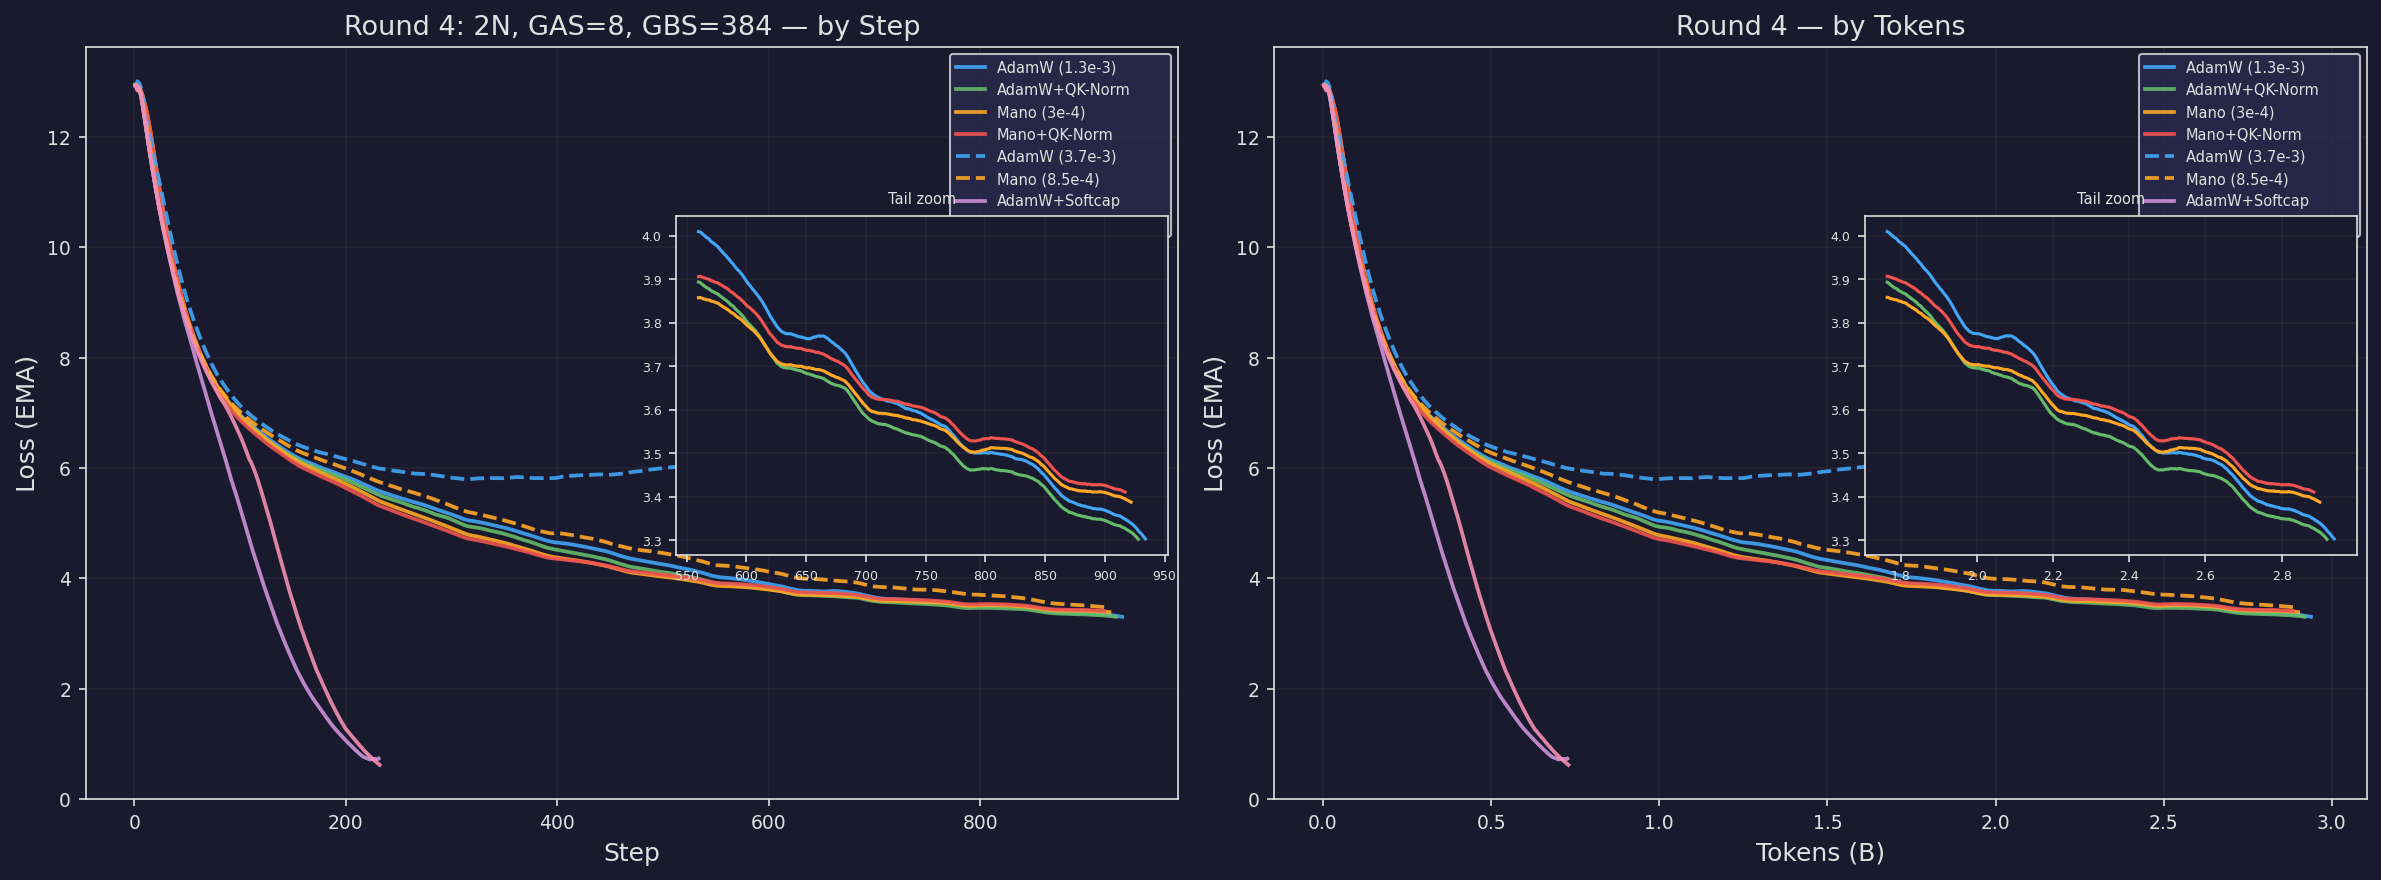
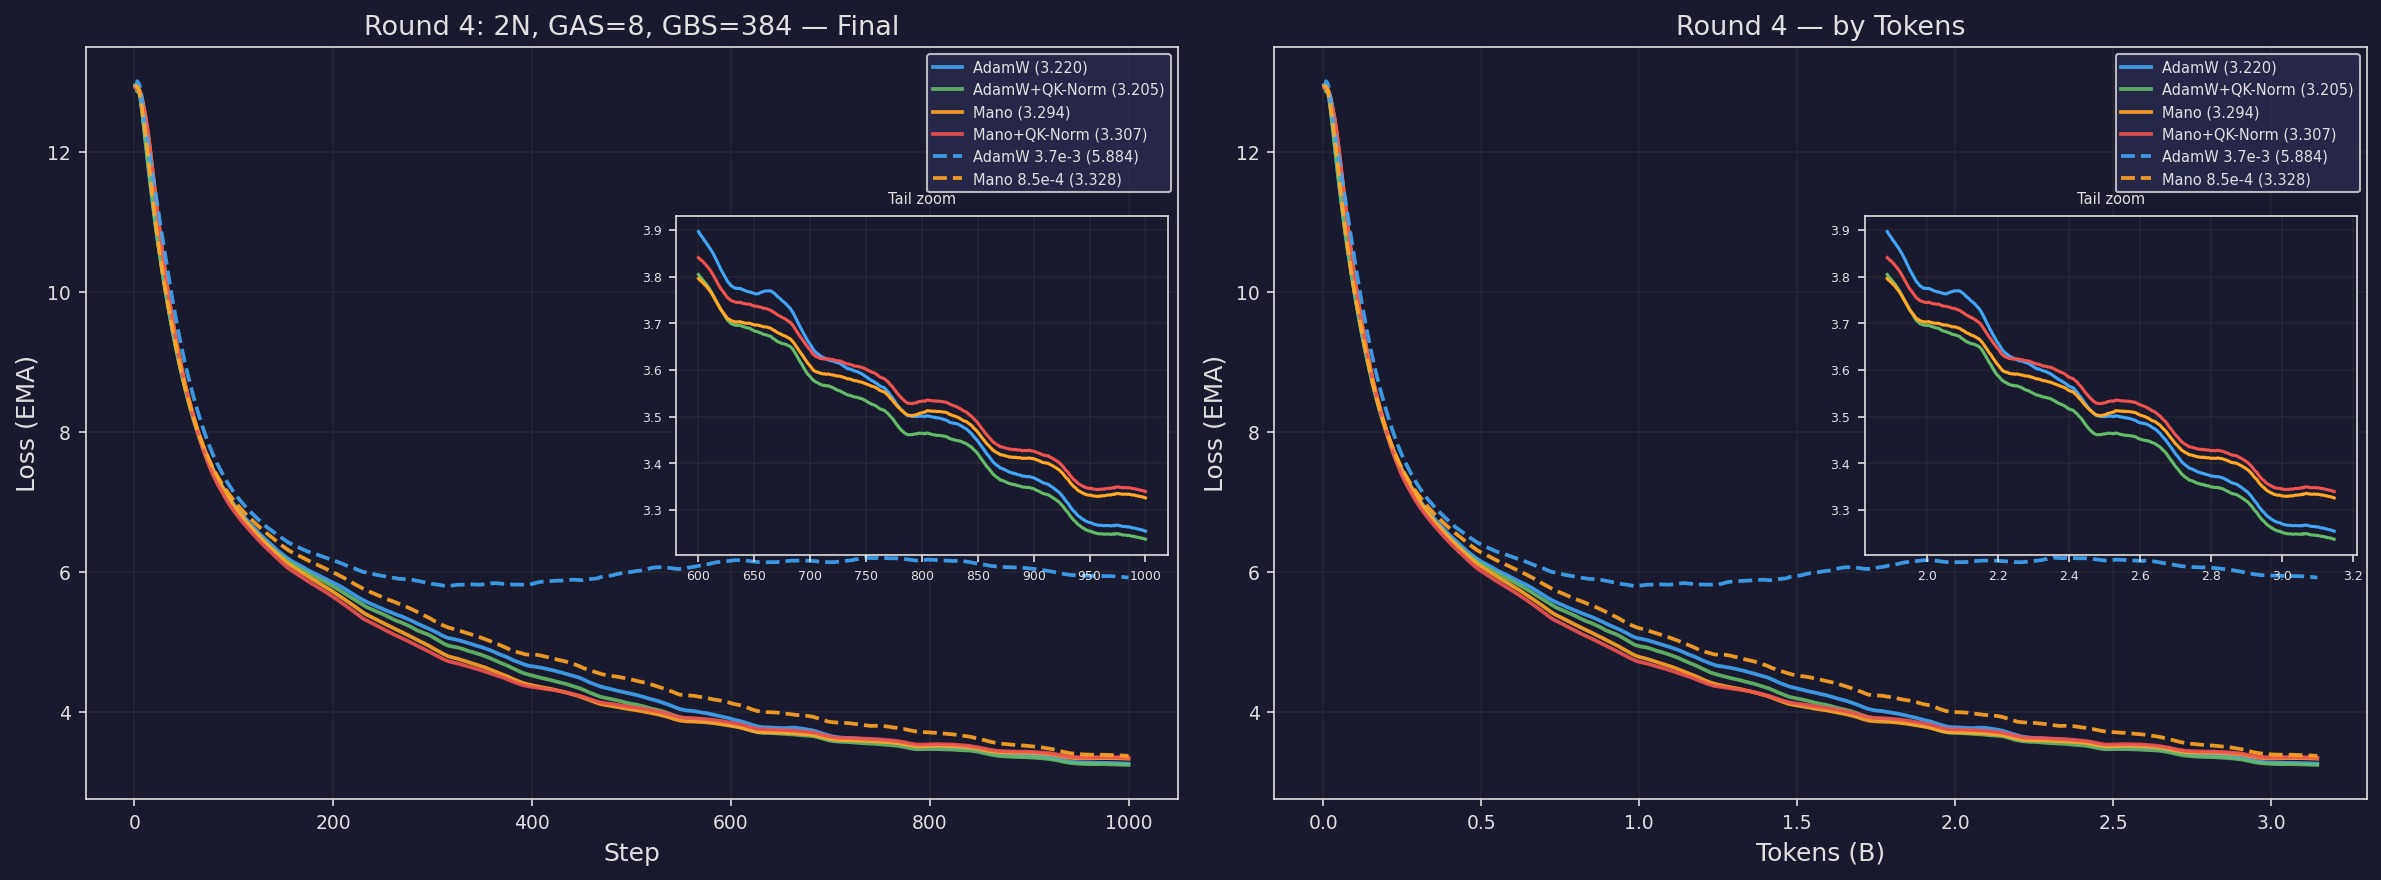
docs(ezpz): round 4 final results — AdamW+QK-Norm wins at 3.205
Final results for 2N, GAS=8, GBS=384, 1000 steps, local FineWeb-Edu:
1. AdamW+QK-Norm: 3.205
2. AdamW: 3.220
3. Mano: 3.294
4. Mano+QK-Norm: 3.307

AdamW wins in the decay phase despite Mano leading early/mid training.
QK-Norm gives consistent 0.015 improvement. Softcap results invalid
(local dataset memorization with FlexAttention path).

diff --git a/torchtitan/experiments/ezpz/docs/competitions/agpt2b-n2-gas8-1000steps/README.md b/torchtitan/experiments/ezpz/docs/competitions/agpt2b-n2-gas8-1000steps/README.md
@@ -28,32 +28,32 @@
   <img alt="Loss curves" src="figures/loss_curves_light.png">
 </picture>
 
-## Results (in progress)
+## Results
 
-| Rank | Config | Optimizer | LR | Loss | TPS/GPU | Status |
-|------|--------|-----------|------|------|---------|--------|
-| 1 | `r4_mano_qknorm` | Mano+QK-Norm | 3.0e-4 | — | 7,380 | Running |
-| 2 | `r4_mano` | Mano | 3.0e-4 | — | 7,396 | Running |
-| 3 | `r4_adamw_qknorm` | AdamW+QK-Norm | 1.3e-3 | — | 7,450 | Running |
-| 4 | `r4_adamw` | AdamW | 1.3e-3 | — | 7,544 | Running |
-| 5 | `r4_mano_higher_lr` | Mano | 8.5e-4 | — | 7,419 | Running |
-| 6 | `r4_adamw_higher_lr` | AdamW | 3.7e-3 | — | 7,518 | Running (diverging) |
-| 7 | `r4_adamw_softcap` | AdamW+Softcap | 1.3e-3 | — | 1,865 | Running (FlexAttn slow) |
-| 8 | `r4_adamw_qknorm_softcap` | AdamW+QKN+Softcap | 1.3e-3 | — | 1,876 | Running (FlexAttn slow) |
+| Rank | Config | Optimizer | LR | Loss | TPS/GPU |
+|------|--------|-----------|------|------|---------|
+| **1** | **`r4_adamw_qknorm`** | **AdamW+QK-Norm** | 1.3e-3 | **3.205** | 7,428 |
+| 2 | `r4_adamw` | AdamW | 1.3e-3 | 3.220 | 7,397 |
+| 3 | `r4_mano` | Mano | 3.0e-4 | 3.294 | 7,397 |
+| 4 | `r4_mano_qknorm` | Mano+QK-Norm | 3.0e-4 | 3.307 | 7,423 |
+| 5 | `r4_mano_higher_lr` | Mano | 8.5e-4 | 3.328 | 7,348 |
+| 6 | `r4_adamw_higher_lr` | AdamW | 3.7e-3 | 5.884 | 7,603 |
+| — | `r4_adamw_softcap` | AdamW+Softcap | 1.3e-3 | memorized | 1,865 |
+| — | `r4_adamw_qknorm_softcap` | AdamW+QKN+Softcap | 1.3e-3 | memorized | 1,876 |
 
-### Findings (step ~400)
+### Final Findings
 
-- **Mano+QK-Norm leads at 4.23** — 0.34 ahead of AdamW (4.57), gap widening
-- **Mano beats AdamW per-step** at GBS=384 with GAS=8 — reversal from the
-  8-node run where AdamW won (GAS=2). More gradient accumulation steps may
-  favor manifold optimizers.
-- **QK-Norm helps both optimizers** by ~0.04-0.17 consistently
-- **sqrt-scaled LR is too aggressive** — AdamW at 3.7e-3 fully diverged (5.93),
-  Mano at 8.5e-4 behind base Mano at 3e-4
-- **Softcap is 4-5x more data-efficient** — loss 3.34 at step 99 vs AdamW 4.57
-  at step 404. But 4x slower throughput (FlexAttention on XPU = 1,860 TPS)
-- **ReLU² hurts softcap** — kitchen_sink (QK-Norm + softcap + ReLU²) at 5.47
-  vs softcap-only at 3.34. ReLU² is actively harmful in this combination.
+- **AdamW+QK-Norm wins** (3.205) — QK-Norm gave 0.015 improvement over plain AdamW
+- **Mano leads early/mid training** but **AdamW catches up and wins in the decay phase**
+  — Mano was ahead by 0.25 at step 300, but AdamW overtook during cosine decay
+- **QK-Norm helps both optimizers** — 0.015 for AdamW, -0.013 for Mano
+- **sqrt-scaled LR is too aggressive** — AdamW at 3.7e-3 diverged (5.88),
+  Mano at 8.5e-4 slightly behind base Mano at 3e-4 (3.33 vs 3.29)
+- **Softcap results invalid** — local dataset loader causes memorization with
+  FlexAttention path (loss dropped to 0.05). Data sharding bug, not a
+  softcap evaluation.
+- **Consistent with 8-node 10B results** — AdamW wins at GBS=384 regardless
+  of whether it's 2N×GAS=8 or 8N×GAS=2
 
 ## Key Questions
 

diff --git a/torchtitan/experiments/ezpz/docs/competitions/README.md b/torchtitan/experiments/ezpz/docs/competitions/README.md
@@ -6,4 +6,4 @@ Optimizer and training speedrun competitions for AuroraGPT models.
 |-------------|-------|-------|--------|--------|------|
 | [agpt2b-n2-1000steps](agpt2b-n2-1000steps/) | agpt_2b | 2 | ~400M | Muon (3.557) / AdamW+QK-Norm (3.569) | 3.557 |
 | [agpt2b-n8-10BT](agpt2b-n8-10BT/) | agpt_2b | 8 | 10B | AdamW (2.711) | 2.711 |
-| [agpt2b-n2-gas8-1000steps](agpt2b-n2-gas8-1000steps/) | agpt_2b | 2 (GAS=8) | 3.15B | In progress | — |
+| [agpt2b-n2-gas8-1000steps](agpt2b-n2-gas8-1000steps/) | agpt_2b | 2 (GAS=8) | 3.15B | AdamW+QK-Norm (3.205) | 3.205 |
